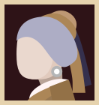
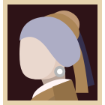
style:fix nft collection UI

diff --git a/src/screens/nft/create_collection/index.js b/src/screens/nft/create_collection/index.js
@@ -65,7 +65,7 @@ const CreateCollection = () => {
             }
           />
           <ImagePickerView
-            style={styles.featuredContainer}
+            style={styles.bannerContainer}
             onImagePicker={setBannerImage}
           />
           <TitleAndTips title={'Name'} />
@@ -150,8 +150,13 @@ const createSty = theme =>
       borderRadius: 45,
     },
     featuredContainer: {
+      width: 263,
+      height: 175,
+      borderRadius: 12,
+    },
+    bannerContainer: {
       width: 345,
-      height: 173,
+      height: 175,
       borderRadius: 12,
     },
     nameContainer: {

diff --git a/src/screens/nft/create_collection/comps/CategoryView.js b/src/screens/nft/create_collection/comps/CategoryView.js
@@ -50,7 +50,7 @@ const createSty = theme =>
       lineHeight: 18,
       color: theme.c_8E8E92,
     },
-    categoryTypeIcon: {width: 33, height: 35, marginLeft: 12},
+    categoryTypeIcon: {width: 35, height: 35, marginLeft: 12},
     arrow: {width: 16, height: 16, marginLeft: 9},
   });
 export default CategoryView;
